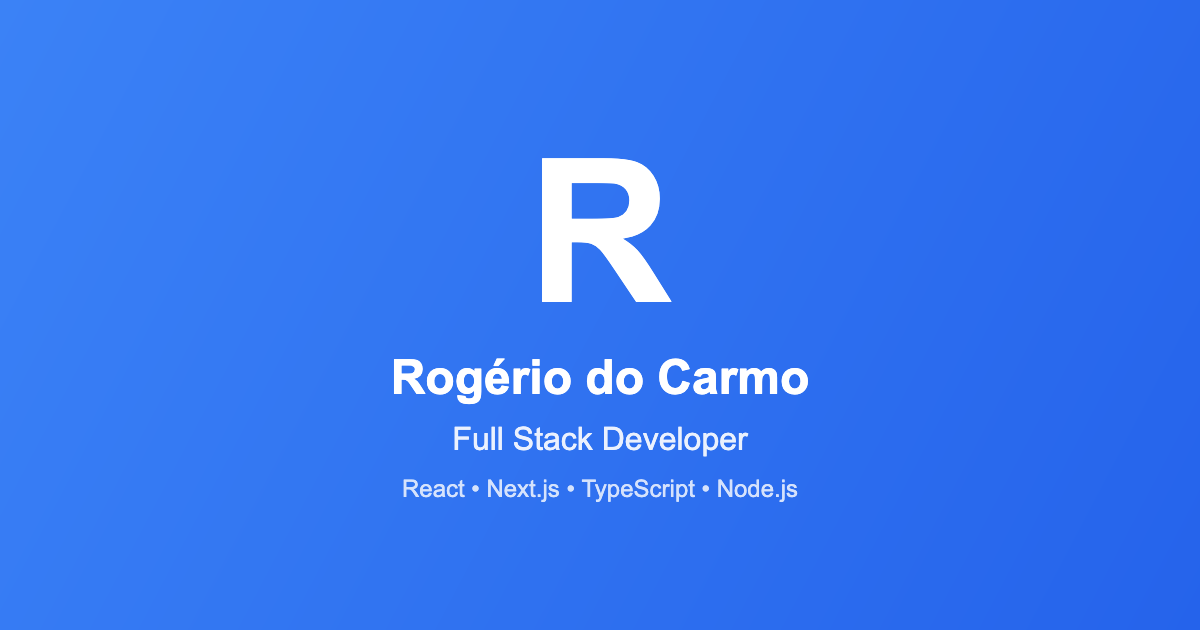
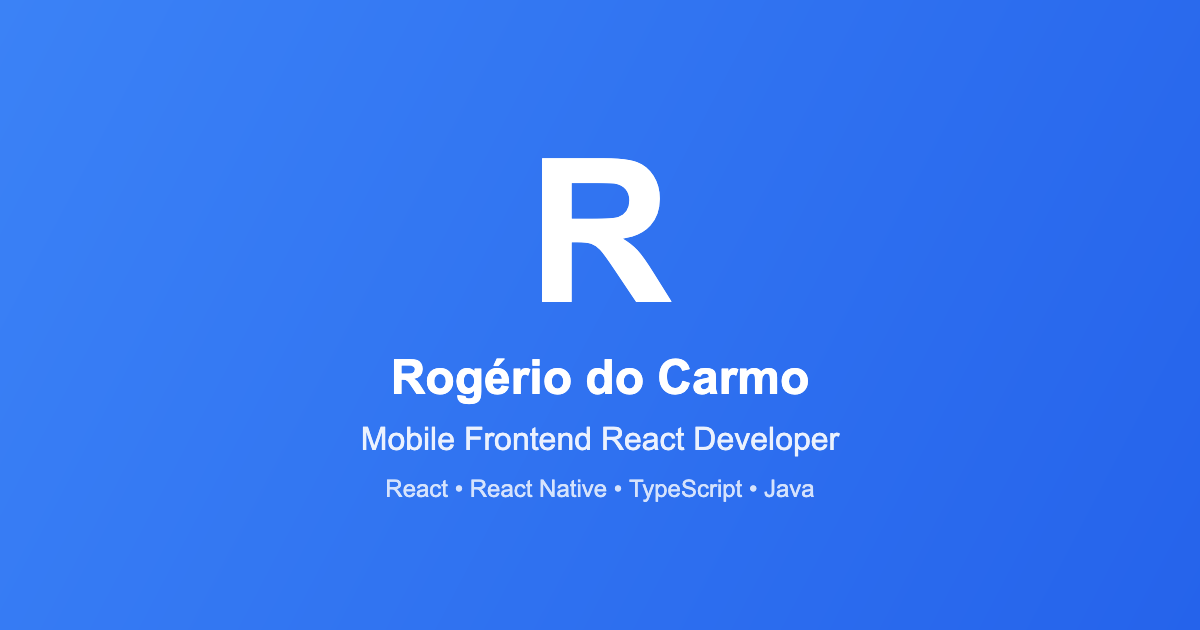
chore: update profile metadata - change to Mobile Frontend React Developer
- Replace 'Full Stack Developer' with 'Mobile Frontend React Developer' across all locales (pt-BR, en, es)
- Replace 'Node.js' with 'Java' in descriptions and tag mappings
- Replace 'Next.js' with 'React Native' in descriptions and keywords
- Update SEO metadata in lib/seo.ts
- Update structured data in lib/structured-data.ts
- Update tag color mappings in lib/tag-colors.ts
- Update OG image SVG and PNG files
- Update OG image generator script

Changed region(s): [[0.2775, 0.6635, 0.7092, 0.7238], [0.3083, 0.754, 0.6783, 0.8143]]

diff --git a/scripts/generate-og-image.html b/scripts/generate-og-image.html
@@ -1,103 +1,111 @@
 <!doctype html>
 <html lang="en">
-  <head>
-    <meta charset="UTF-8" />
-    <meta name="viewport" content="width=device-width, initial-scale=1.0" />
-    <title>Generate OG Image</title>
-    <style>
-      body {
-        margin: 0;
-        padding: 20px;
-        font-family: Arial, sans-serif;
-        background: #f3f4f6;
-      }
-      .container {
-        max-width: 1200px;
-        margin: 0 auto;
-      }
-      canvas {
-        border: 2px solid #ddd;
-        display: block;
-        margin: 20px auto;
-        background: white;
-      }
-      button {
-        display: block;
-        margin: 20px auto;
-        padding: 12px 24px;
-        font-size: 16px;
-        background: #3b82f6;
-        color: white;
-        border: none;
-        border-radius: 6px;
-        cursor: pointer;
-      }
-      button:hover {
-        background: #2563eb;
-      }
-      .instructions {
-        background: white;
-        padding: 20px;
-        border-radius: 8px;
-        margin-bottom: 20px;
-      }
-    </style>
-  </head>
-  <body>
-    <div class="container">
-      <div class="instructions">
-        <h1>Open Graph Image Generator</h1>
-        <p>This tool generates a 1200x630px PNG image for Open Graph social media sharing.</p>
-        <ol>
-          <li>The canvas below shows the preview</li>
-          <li>Click "Download PNG" to save the image</li>
-          <li>Save it as <code>og-image.png</code> in the <code>public/</code> folder</li>
-        </ol>
-      </div>
 
-      <canvas id="canvas" width="1200" height="630"></canvas>
-      <button onclick="downloadImage()">Download PNG</button>
+<head>
+  <meta charset="UTF-8" />
+  <meta name="viewport" content="width=device-width, initial-scale=1.0" />
+  <title>Generate OG Image</title>
+  <style>
+    body {
+      margin: 0;
+      padding: 20px;
+      font-family: Arial, sans-serif;
+      background: #f3f4f6;
+    }
+
+    .container {
+      max-width: 1200px;
+      margin: 0 auto;
+    }
+
+    canvas {
+      border: 2px solid #ddd;
+      display: block;
+      margin: 20px auto;
+      background: white;
+    }
+
+    button {
+      display: block;
+      margin: 20px auto;
+      padding: 12px 24px;
+      font-size: 16px;
+      background: #3b82f6;
+      color: white;
+      border: none;
+      border-radius: 6px;
+      cursor: pointer;
+    }
+
+    button:hover {
+      background: #2563eb;
+    }
+
+    .instructions {
+      background: white;
+      padding: 20px;
+      border-radius: 8px;
+      margin-bottom: 20px;
+    }
+  </style>
+</head>
+
+<body>
+  <div class="container">
+    <div class="instructions">
+      <h1>Open Graph Image Generator</h1>
+      <p>This tool generates a 1200x630px PNG image for Open Graph social media sharing.</p>
+      <ol>
+        <li>The canvas below shows the preview</li>
+        <li>Click "Download PNG" to save the image</li>
+        <li>Save it as <code>og-image.png</code> in the <code>public/</code> folder</li>
+      </ol>
     </div>
 
-    <script>
-      const canvas = document.getElementById("canvas");
-      const ctx = canvas.getContext("2d");
+    <canvas id="canvas" width="1200" height="630"></canvas>
+    <button onclick="downloadImage()">Download PNG</button>
+  </div>
 
-      // Create gradient background
-      const gradient = ctx.createLinearGradient(0, 0, 1200, 630);
-      gradient.addColorStop(0, "#3b82f6");
-      gradient.addColorStop(1, "#2563eb");
+  <script>
+    const canvas = document.getElementById("canvas");
+    const ctx = canvas.getContext("2d");
 
-      ctx.fillStyle = gradient;
-      ctx.fillRect(0, 0, 1200, 630);
+    // Create gradient background
+    const gradient = ctx.createLinearGradient(0, 0, 1200, 630);
+    gradient.addColorStop(0, "#3b82f6");
+    gradient.addColorStop(1, "#2563eb");
 
-      // Draw large "R" initial
-      ctx.fillStyle = "white";
-      ctx.font = "bold 200px Arial, sans-serif";
-      ctx.textAlign = "center";
-      ctx.textBaseline = "middle";
-      ctx.fillText("R", 600, 240);
+    ctx.fillStyle = gradient;
+    ctx.fillRect(0, 0, 1200, 630);
 
-      // Draw name
-      ctx.font = "600 48px Arial, sans-serif";
-      ctx.fillText("Rogério do Carmo", 600, 380);
+    // Draw large "R" initial
+    ctx.fillStyle = "white";
+    ctx.font = "bold 200px Arial, sans-serif";
+    ctx.textAlign = "center";
+    ctx.textBaseline = "middle";
+    ctx.fillText("R", 600, 240);
 
-      // Draw title/role
-      ctx.fillStyle = "rgba(255, 255, 255, 0.9)";
-      ctx.font = "32px Arial, sans-serif";
-      ctx.fillText("Full Stack Developer", 600, 440);
+    // Draw name
+    ctx.font = "600 48px Arial, sans-serif";
+    ctx.fillText("Rogério do Carmo", 600, 380);
 
-      // Draw subtitle
-      ctx.fillStyle = "rgba(255, 255, 255, 0.8)";
-      ctx.font = "24px Arial, sans-serif";
-      ctx.fillText("React • Next.js • TypeScript • Node.js", 600, 490);
+    // Draw title/role
+    ctx.fillStyle = "rgba(255, 255, 255, 0.9)";
+    ctx.font = "32px Arial, sans-serif";
+    ctx.fillText("Mobile Frontend React Developer", 600, 440);
 
-      function downloadImage() {
-        const link = document.createElement("a");
-        link.download = "og-image.png";
-        link.href = canvas.toDataURL("image/png");
-        link.click();
-      }
-    </script>
-  </body>
+    // Draw subtitle
+    ctx.fillStyle = "rgba(255, 255, 255, 0.8)";
+    ctx.font = "24px Arial, sans-serif";
+    ctx.fillText("React • React Native • TypeScript • Java", 600, 490);
+
+    function downloadImage() {
+      const link = document.createElement("a");
+      link.download = "og-image.png";
+      link.href = canvas.toDataURL("image/png");
+      link.click();
+    }
+  </script>
+</body>
+
 </html>

diff --git a/lib/seo.ts b/lib/seo.ts
@@ -96,10 +96,17 @@ export function generatePageMetadata(
   > = {
     "pt-BR": {
       home: {
-        title: "Rogério do Carmo - Desenvolvedor Full Stack",
+        title: "Rogério do Carmo - Desenvolvedor Mobile Frontend React",
         description:
-          "Portfolio profissional de Rogério do Carmo. Desenvolvedor Full Stack especializado em React, Next.js, TypeScript e Node.js.",
-        keywords: ["desenvolvedor", "full stack", "react", "nextjs", "typescript", "portfolio"],
+          "Portfolio profissional de Rogério do Carmo. Desenvolvedor Mobile Frontend React especializado em React, React Native, TypeScript e Java.",
+        keywords: [
+          "desenvolvedor",
+          "mobile frontend",
+          "react",
+          "react native",
+          "typescript",
+          "portfolio",
+        ],
       },
       projects: {
         title: "Projetos - Rogério do Carmo",
@@ -127,10 +134,17 @@ export function generatePageMetadata(
     },
     en: {
       home: {
-        title: "Rogério do Carmo - Full Stack Developer",
+        title: "Rogério do Carmo - Mobile Frontend React Developer",
         description:
-          "Professional portfolio of Rogério do Carmo. Full Stack Developer specialized in React, Next.js, TypeScript and Node.js.",
-        keywords: ["developer", "full stack", "react", "nextjs", "typescript", "portfolio"],
+          "Professional portfolio of Rogério do Carmo. Mobile Frontend React Developer specialized in React, React Native, TypeScript and Java.",
+        keywords: [
+          "developer",
+          "mobile frontend",
+          "react",
+          "react native",
+          "typescript",
+          "portfolio",
+        ],
       },
       projects: {
         title: "Projects - Rogério do Carmo",
@@ -158,10 +172,17 @@ export function generatePageMetadata(
     },
     es: {
       home: {
-        title: "Rogério do Carmo - Desarrollador Full Stack",
+        title: "Rogério do Carmo - Desarrollador Mobile Frontend React",
         description:
-          "Portafolio profesional de Rogério do Carmo. Desarrollador Full Stack especializado en React, Next.js, TypeScript y Node.js.",
-        keywords: ["desarrollador", "full stack", "react", "nextjs", "typescript", "portafolio"],
+          "Portafolio profesional de Rogério do Carmo. Desarrollador Mobile Frontend React especializado en React, React Native, TypeScript y Java.",
+        keywords: [
+          "desarrollador",
+          "mobile frontend",
+          "react",
+          "react native",
+          "typescript",
+          "portafolio",
+        ],
       },
       projects: {
         title: "Proyectos - Rogério do Carmo",

diff --git a/lib/structured-data.ts b/lib/structured-data.ts
@@ -15,21 +15,21 @@ export function generatePersonSchema(locale: string): WithContext<Person> {
   > = {
     "pt-BR": {
       name: "Rogério do Carmo",
-      jobTitle: "Desenvolvedor Full Stack",
+      jobTitle: "Desenvolvedor Mobile Frontend React",
       description:
-        "Desenvolvedor Full Stack especializado em React, Next.js, TypeScript e Node.js. Experiência em desenvolvimento web moderno e arquitetura de software.",
+        "Desenvolvedor Mobile Frontend React especializado em React, React Native, TypeScript e Java. Experiência em desenvolvimento web moderno e arquitetura de software.",
     },
     en: {
       name: "Rogério do Carmo",
-      jobTitle: "Full Stack Developer",
+      jobTitle: "Mobile Frontend React Developer",
       description:
-        "Full Stack Developer specialized in React, Next.js, TypeScript and Node.js. Experience in modern web development and software architecture.",
+        "Mobile Frontend React Developer specialized in React, React Native, TypeScript and Java. Experience in modern web development and software architecture.",
     },
     es: {
       name: "Rogério do Carmo",
-      jobTitle: "Desarrollador Full Stack",
+      jobTitle: "Desarrollador Mobile Frontend React",
       description:
-        "Desarrollador Full Stack especializado en React, Next.js, TypeScript y Node.js. Experiencia en desarrollo web moderno y arquitectura de software.",
+        "Desarrollador Mobile Frontend React especializado en React, React Native, TypeScript y Java. Experiencia en desarrollo web moderno y arquitectura de software.",
     },
   };
 
@@ -51,11 +51,11 @@ export function generatePersonSchema(locale: string): WithContext<Person> {
       "JavaScript",
       "TypeScript",
       "React",
-      "Next.js",
-      "Node.js",
+      "React Native",
+      "Java",
       "Web Development",
       "Software Architecture",
-      "Full Stack Development",
+      "Mobile Frontend Development",
     ],
     alumniOf: {
       "@type": "EducationalOrganization",

diff --git a/lib/tag-colors.ts b/lib/tag-colors.ts
@@ -90,7 +90,7 @@ const TECH_THEME_MAP: Record<string, TagTheme> = {
   "next-intl": "web",
 
   // Backend
-  "Node.js": "backend",
+  Java: "backend",
   Express: "backend",
   NestJS: "backend",
   Python: "backend",
